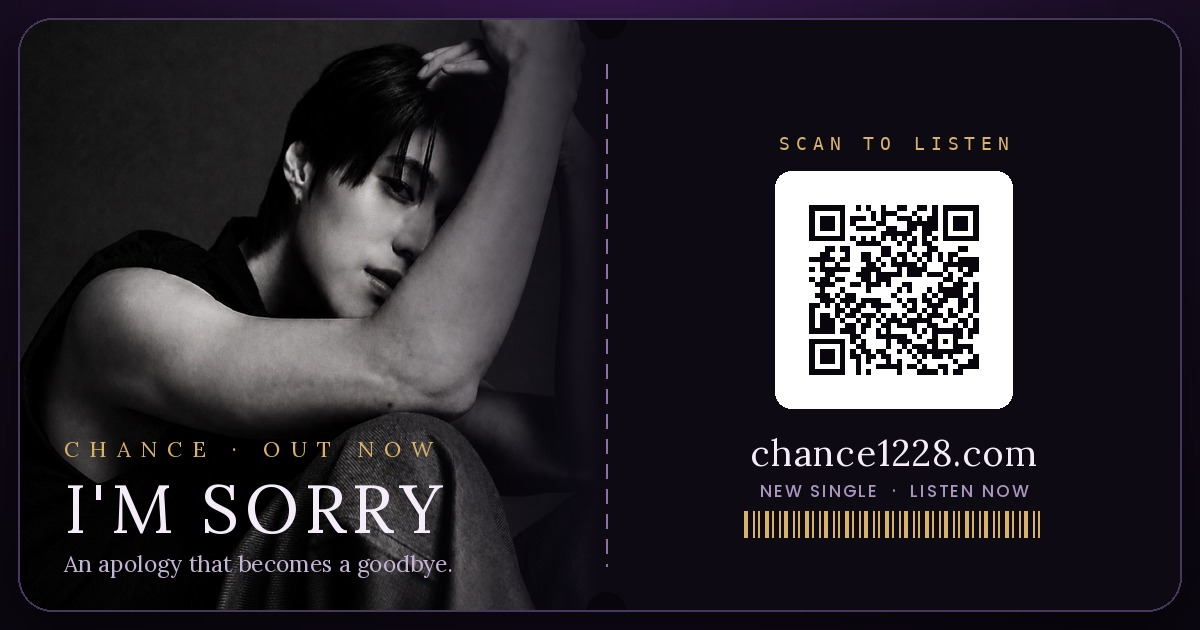
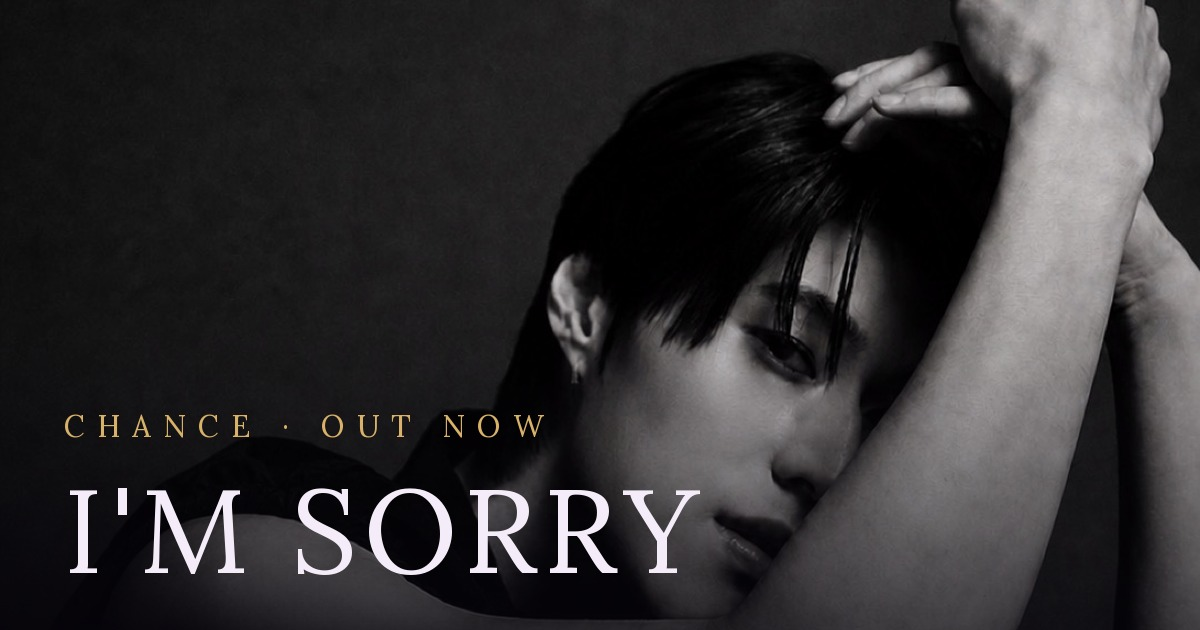
橫版連結卡改滿版：整張照片 + 只留 CHANCE · OUT NOW / I'M SORRY
- 拿掉 QR、票根、條碼、chance1228.com 面板（連結卡點了就進站，不需 QR）
- 照片滿版 1200x630，臉部完整，裁在自帶標題下方避免重字
- 左下漸層壓暗放 hero 文字
- og:image v5 強制平台重抓
- 直式圖（story）維持含 QR 不變，供 IG 限動/AirDrop 手動附加用

diff --git a/im-sorry/index.html b/im-sorry/index.html
@@ -10,7 +10,7 @@
 <meta property="og:type" content="website">
 <meta property="og:title" content="CHANCE — I'M SORRY">
 <meta property="og:description" content="An apology that becomes a goodbye. The new single — out now.">
-<meta property="og:image" content="https://chance1228.com/assets/share/im-sorry-share-card-og.jpg?v=4">
+<meta property="og:image" content="https://chance1228.com/assets/share/im-sorry-share-card-og.jpg?v=5">
 <meta property="og:image:width" content="1200">
 <meta property="og:image:height" content="630">
 <meta property="og:url" content="https://chance1228.com/im-sorry/">
@@ -18,7 +18,7 @@
 <meta name="twitter:card" content="summary_large_image">
 <meta name="twitter:title" content="CHANCE — I'M SORRY">
 <meta name="twitter:description" content="An apology that becomes a goodbye. The new single — out now.">
-<meta name="twitter:image" content="https://chance1228.com/assets/share/im-sorry-share-card-og.jpg?v=4">
+<meta name="twitter:image" content="https://chance1228.com/assets/share/im-sorry-share-card-og.jpg?v=5">
 <link rel="canonical" href="https://chance1228.com/im-sorry/">
 <!-- After the www DNS is configured, replace every chance1228.com URL on this page with www.chance1228.com. -->
 

diff --git a/tools/make-share-card.py b/tools/make-share-card.py
@@ -277,102 +277,50 @@ def render(W, H, name, hero_ratio=0.60, pad_ratio=0.045):
     return jpg
 
 
-def render_landscape(W, H, name, pad_ratio=0.030):
-    """Wide ticket: artwork on the left, stub with the QR on the right."""
+def render_landscape(W, H, name, pad_ratio=0.0):
+    """Full-bleed link-preview card: the photo fills the whole frame, with only
+    the hero text (CHANCE · OUT NOW / I'M SORRY) in the lower-left. No QR / stub —
+    it is a clickable link preview, so tapping it opens the page directly."""
     s = H / 630.0
 
-    base = radial_bg(W, H).convert("RGB")
-    pad = int(H * pad_ratio)
-    card_w, card_h = W - pad * 2, H - pad * 2
-    radius = int(34 * s)
+    # Photo fills the entire 1200x630 frame.
+    img = Image.open(COVER).convert("RGB")
+    # Crop a horizontal band centred on the subject's face, below the baked title.
+    dst_ratio = W / H
+    nh = int(img.width / dst_ratio)
+    top = max(0, min(TEXT_SAFE_TOP, img.height - nh))   # below the baked-in title
+    img = img.crop((0, top, img.width, top + nh)).resize((W, H), Image.LANCZOS)
 
-    card = Image.new("RGB", (card_w, card_h), CARD_BG)
-    cd = ImageDraw.Draw(card)
+    base = img.copy()
+    ov = ImageDraw.Draw(base, "RGBA")
 
-    # ---------------- left: artwork ----------------
-    art_w = int(card_w * 0.50)
-    art = cover_crop(art_w, card_h)
+    # Cinematic gradient: dark at the bottom-left for text, clear top-right.
+    grad = Image.new("L", (W, H), 0)
+    gp = grad.load()
+    for y in range(H):
+        for_row = int(235 * max(0.0, (y / H - 0.30) / 0.70) ** 1.4)
+        gp_row = for_row
+        # apply, biased slightly stronger on the left
+        for x in range(0, W, 8):
+            left_bias = 1.0 - 0.35 * (x / W)
+            v = int(gp_row * left_bias)
+            for xx in range(x, min(x + 8, W)):
+                gp[xx, y] = v
+    shade = Image.new("RGB", (W, H), (6, 4, 10))
+    base = Image.composite(shade, base, grad)
 
-    # fade the right edge of the artwork into the stub
-    g = Image.new("L", (art_w, 1))
-    gp = g.load()
-    for x in range(art_w):
-        t = x / max(1, art_w - 1)
-        gp[x, 0] = 0 if t < 0.55 else int(255 * ((t - 0.55) / 0.45) ** 1.5)
-    art = Image.composite(Image.new("RGB", (art_w, card_h), CARD_BG), art,
-                          g.resize((art_w, card_h)))
-    card.paste(art, (0, 0))
+    ov = ImageDraw.Draw(base)
+    m = int(64 * s)
+    f_eyebrow = font(F_SERIF, int(30 * s))
+    f_title   = font(F_SERIF, int(118 * s))
 
-    m = int(46 * s)
-    f_eyebrow = font(F_SERIF, int(22 * s))
-    f_song    = font(F_SERIF, int(68 * s))
-    f_blurb   = font(F_SERIF, int(23 * s))
-
-    ay = card_h - int(178 * s)
-    # Landscape carries the artist name so the standalone card is attributable.
-    tracked(cd, (m, ay), "CHANCE · " + EYEBROW, f_eyebrow, GOLD, tracking=int(10 * s))
-    tracked(cd, (m, ay + int(30 * s)), SONG, f_song, INK, tracking=int(5 * s))
-    cd.text((m, ay + int(114 * s)), BLURB, font=f_blurb, fill=(196, 180, 214))
-
-    # ---------------- vertical perforation ----------------
-    px_ = art_w + int(6 * s)
-    dash, gap = int(14 * s), int(11 * s)
-    dy = m
-    while dy < card_h - m:
-        cd.line([(px_, dy), (px_, min(dy + dash, card_h - m))],
-                fill=(140, 112, 168), width=max(2, int(2.5 * s)))
-        dy += dash + gap
-    hole = int(20 * s)
-    for hy in (0, card_h):
-        cd.ellipse([px_ - hole, hy - hole, px_ + hole, hy + hole], fill=BG)
-
-    # ---------------- right: stub ----------------
-    sx = px_ + int(54 * s)
-
-    # Stub contents are stacked and centred inside the right-hand panel so
-    # nothing can run past the card edge regardless of string length.
-    panel_l, panel_r = px_, card_w
-    ccx = (panel_l + panel_r) / 2
-
-    f_scan = font(F_MONO, int(18 * s))
-    f_url  = font(F_SERIF, int(36 * s))
-    f_tag  = font(F_SANS, int(17 * s))
-
-    qr_px = int(210 * s)
-    qpad = int(14 * s)
-    qr_card = Image.new("RGB", (qr_px + qpad * 2, qr_px + qpad * 2), (255, 255, 255))
-    qr_card.paste(qr_image(qr_px), (qpad, qpad))
-
-    block_h = int(26 * s) + qr_card.height + int(20 * s) + int(46 * s) + int(34 * s)
-    top = int((card_h - block_h) / 2)
-
-    tracked(cd, (ccx, top), SCAN_LABEL, f_scan, GOLD, tracking=int(6 * s), anchor_x="center")
-    qy = top + int(38 * s)
-    card.paste(qr_card, (int(ccx - qr_card.width / 2), qy),
-               rounded_mask(qr_card.size, int(16 * s)))
-
-    uy = qy + qr_card.height + int(20 * s)
-    tracked(cd, (ccx, uy), URL_LABEL, f_url, INK, tracking=int(1 * s), anchor_x="center")
-    tracked(cd, (ccx, uy + int(50 * s)), TAGLINE, f_tag, (168, 150, 190),
-            tracking=int(2 * s), anchor_x="center")
-
-    bw = int(min(300 * s, (panel_r - panel_l) * 0.62))
-    barcode(cd, int(ccx - bw / 2), uy + int(82 * s), bw, int(26 * s))
-
-    # ---------------- compose ----------------
-    card_mask = rounded_mask((card_w, card_h), radius)
-    shadow = Image.new("RGBA", (W, H), (0, 0, 0, 0))
-    shadow.paste(Image.new("RGBA", (card_w, card_h), (0, 0, 0, 170)),
-                 (pad, pad + int(14 * s)), card_mask)
-    shadow = shadow.filter(ImageFilter.GaussianBlur(int(22 * s)))
-    base = Image.alpha_composite(base.convert("RGBA"), shadow).convert("RGB")
-    base.paste(card, (pad, pad), card_mask)
-    ImageDraw.Draw(base).rounded_rectangle(
-        [pad, pad, pad + card_w - 1, pad + card_h - 1], radius,
-        outline=(70, 55, 92), width=max(1, int(2 * s)))
+    title_y = H - int(176 * s)
+    tracked(ov, (m, title_y - int(48 * s)), "CHANCE · " + EYEBROW, f_eyebrow, GOLD,
+            tracking=int(12 * s))
+    tracked(ov, (m, title_y), SONG, f_title, INK, tracking=int(6 * s))
 
     os.makedirs(OUTDIR, exist_ok=True)
-    jpg, png = os.path.join(OUTDIR, name + ".jpg"), os.path.join(OUTDIR, name + ".png")
+    jpg = os.path.join(OUTDIR, name + ".jpg")
     base.save(jpg, "JPEG", quality=92, optimize=True, progressive=True)
     return jpg
 
